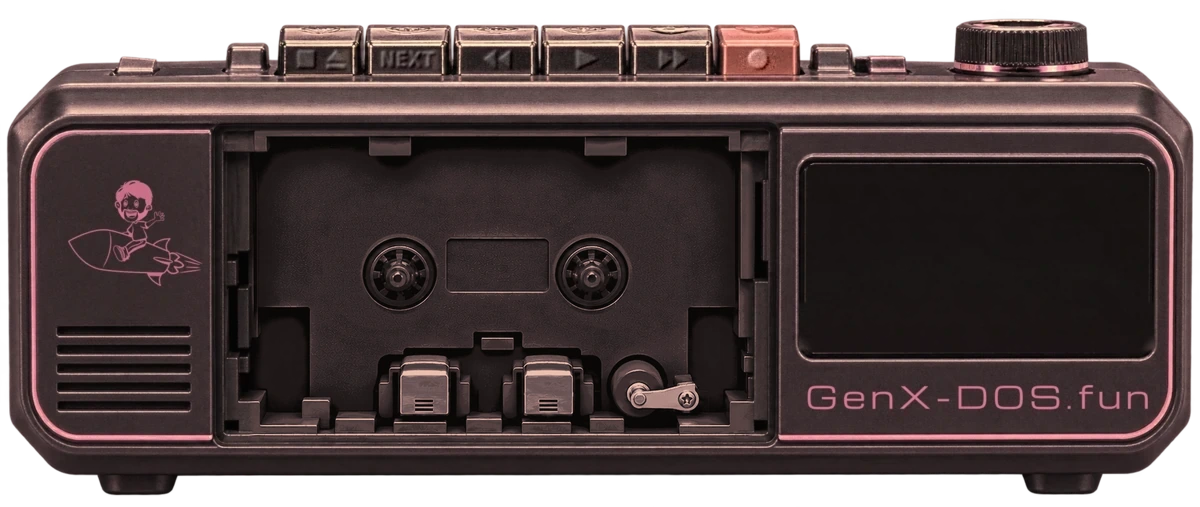
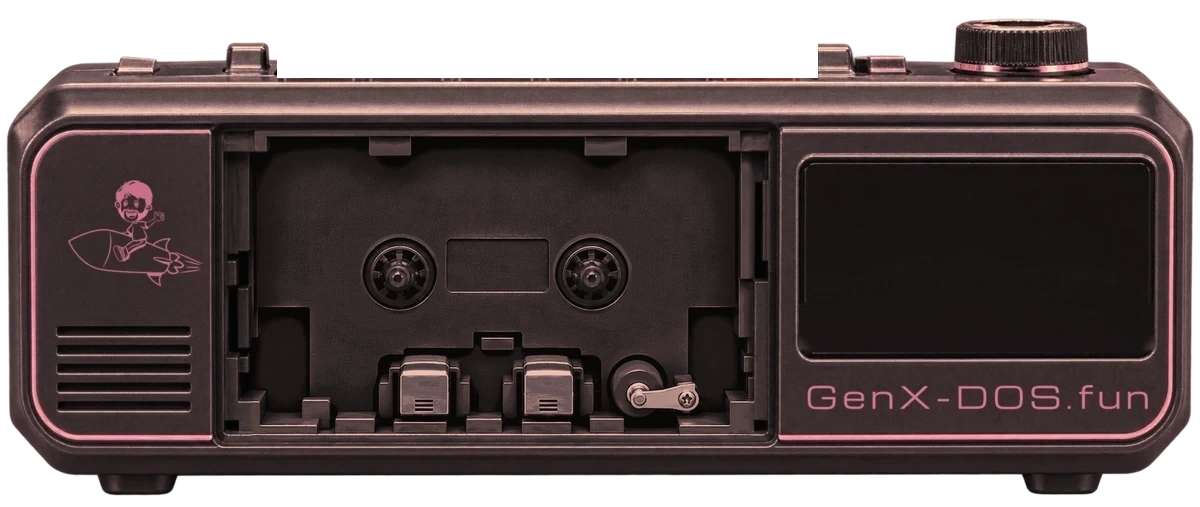
Make the deck's keys objects rather than patches
Each key is now cut out of the deck photograph as its own sprite, and
the deck has had its keys taken out, so a key sits in a hole instead of
being painted over one. It is the hit area too -- the deck images are
pointer-events:none, so a click falls through to the key beneath.

A press is then just the key sinking. The stack runs keys, deck, reels,
so a sinking key slides behind the deck's ledge and the hole it leaves
shows whatever is behind the page. The six pressed-key sprites are gone
entirely; the drop is a share of the key's own height, so it holds at
any size the deck is drawn.

This replaces yesterday's shadow-in-the-gap fix, which treated the
symptom. That and the stage-colour flattening before it both existed to
hide the un-pressed key still sitting in the deck photo. Take the key
out of the photo and there is nothing to hide.

Changed region(s): [[0.2158, 0.0296, 0.7092, 0.1775]]

diff --git a/index.html b/index.html
@@ -62,6 +62,10 @@
      percentages of the part rather than of the page. Move or resize a part
      and its screen goes with it. */
   #monitor, #machine, #tapedeck { position:absolute; }
+  /* The deck owns its stack so its keys can sit behind it: keys 1, deck 2,
+     reels 3. */
+  #tapedeck { isolation:isolate; }
+  #tapedeck img { position:relative; z-index:2; }
   #monitor img, #machine img, #tapedeck img { display:block; width:100%; height:auto; pointer-events:none; }
 
   /* The deck sits above the machine, same width and same left edge, in the
@@ -81,7 +85,7 @@
      bay does not arrive a frame late the first time a tape is ejected.
      The reels go with it. They are part of the cassette, not the deck, so
      there is nothing for them to be drawn on. */
-  #tapedeck img.bare { position:absolute; left:0; top:0; width:100%; opacity:0; }
+  #tapedeck img.bare { position:absolute; left:0; top:0; width:100%; opacity:0; z-index:2; }
   #tapedeck.empty img.bare { opacity:1; }
   #tapedeck.empty i { display:none; }
 
@@ -90,37 +94,42 @@
     background:url(art/deck-reels.webp) 0 0/100% 3700% no-repeat;
     animation:deckreels 3.6s steps(36) infinite;
     animation-play-state:paused;
-    pointer-events:none; z-index:1;
+    pointer-events:none; z-index:3;
   }
   #tapedeck.on i { animation-play-state:running; }
 
-  /* The deck's own keys. Each is a hit area that carries the picture of that
-     key pressed, shown by raising its opacity -- so one small image per key
-     rather than a second copy of the whole deck, which is 9KB against 771KB.
+  /* The deck's own keys. Each one is a real picture of that key, cut from
+     the deck photograph, and the deck itself has had its keys taken out -- so
+     a key is an object sitting in a hole rather than a patch painted over the
+     top of one. It is the hit area too: the deck images are
+     pointer-events:none, so a click passes through them to the key beneath.
 
-     A pressed key sits 15px lower, and the gap it leaves at the top has to
-     hide the un-pressed key underneath, so it cannot simply be transparent.
-     It used to be flattened onto the stage colour, which tied the sprite to
-     ONE page background: on the dark stage here it passed, and anywhere
-     lighter it was a black rectangle floating above the deck.
+     That is what makes a press work. The key simply SINKS. The stack runs
+     keys, then deck, then reels, so a sinking key slides down behind the
+     deck's ledge and the hole it leaves shows whatever is behind the page.
 
-     The gap now carries the deck's own pixels in shadow, with the deck's own
-     alpha -- so it reads as the key sunk into its recess, it is transparent
-     exactly where the deck is transparent, and it composites correctly on any
-     background. */
+     The earlier approach painted the pressed key over the top instead, and
+     the gap it left had to hide the un-pressed key still in the deck photo
+     underneath -- so it could not be transparent, and was flattened onto the
+     stage colour. That tied the artwork to ONE page background: fine on a
+     dark stage, a black rectangle floating above the deck anywhere lighter,
+     which is what it became on GenX-DOS's wallpaper.
+
+     The drop is a share of the key's own height rather than a pixel count, so
+     it holds at whatever size the deck is drawn. */
   #tapedeck .key {
-    position:absolute; z-index:3; cursor:pointer;
+    position:absolute; z-index:1; cursor:pointer;
     background-size:100% 100%; background-repeat:no-repeat;
-    opacity:0;
+    transition:transform .06s ease-out;
   }
-  #tapedeck .key.down { opacity:1; }
+  #tapedeck .key.down { transform:translateY(var(--keydrop, 25%)); }
   #tapedeck .key.off  { cursor:default; }
-  #tapedeck .key[data-key=eject] { background-image:url(art/btn-eject.webp); }
-  #tapedeck .key[data-key=next]  { background-image:url(art/btn-next.webp); }
-  #tapedeck .key[data-key=rew]   { background-image:url(art/btn-rew.webp); }
-  #tapedeck .key[data-key=play]  { background-image:url(art/btn-play.webp); }
-  #tapedeck .key[data-key=ff]    { background-image:url(art/btn-ff.webp); }
-  #tapedeck .key[data-key=rec]   { background-image:url(art/btn-rec.webp); }
+  #tapedeck .key[data-key=eject] { background-image:url(art/key-eject.webp); }
+  #tapedeck .key[data-key=next]  { background-image:url(art/key-next.webp); }
+  #tapedeck .key[data-key=rew]   { background-image:url(art/key-rew.webp); }
+  #tapedeck .key[data-key=play]  { background-image:url(art/key-play.webp); }
+  #tapedeck .key[data-key=ff]    { background-image:url(art/key-ff.webp); }
+  #tapedeck .key[data-key=rec]   { background-image:url(art/key-rec.webp); }
 
   /* The readout in the deck's window: what is on the tape, and in what order.
      Sized in container units so the type scales with the deck rather than
@@ -412,6 +421,8 @@ const reg = await fetch('art/regions.json').then(r => r.json());
   within(document.getElementById('tapewin'), reg.deck.window);
   for (const [k, r] of Object.entries(reg.deck.buttons))
     within(document.querySelector(`#tapedeck .key[data-key="${k}"]`), r);
+  document.getElementById('tapedeck')
+          .style.setProperty('--keydrop', reg.deck.keyDrop + '%');
 }
 
 const names = ['aben191.ic6','cdi3.ic7','ef iss 1.ic8','char eprom iss 1.ic453','cop420-guw.ic419'];

diff --git a/CHANGELOG.md b/CHANGELOG.md
@@ -144,6 +144,23 @@ versions follow [Semantic Versioning](https://semver.org/spec/v2.0.0.html).
 
 ### Changed
 
+- **The deck's keys are objects now, not patches painted over the deck.** Each
+  key has been cut out of the deck photograph as its own sprite and the deck
+  has had its keys taken out, so a key sits in a hole rather than on top of
+  one. It is the hit area too -- the deck images are pointer-events:none, so a
+  click falls through to the key beneath.
+
+  A press is then just the key SINKING. The stack runs keys, deck, reels, so a
+  sinking key slides down behind the deck's ledge and the hole it leaves shows
+  whatever is behind the page. No pressed-key sprites at all any more: the
+  six btn-*.webp are gone, replaced by six key-*.webp, and the drop is a share
+  of the key's own height so it holds at any size the deck is drawn.
+
+  This replaces yesterday's shadow-in-the-gap fix, which was treating the
+  symptom. Both it and the stage-colour flattening before it existed to hide
+  the un-pressed key still sitting in the deck photo. Take the key out of the
+  photo and there is nothing to hide.
+
 - **The deck's keys no longer carry a page background with them.** A pressed
   key sits 15px lower and the gap it leaves has to hide the un-pressed key
   underneath, so it cannot simply be transparent -- that was the reasoning that
